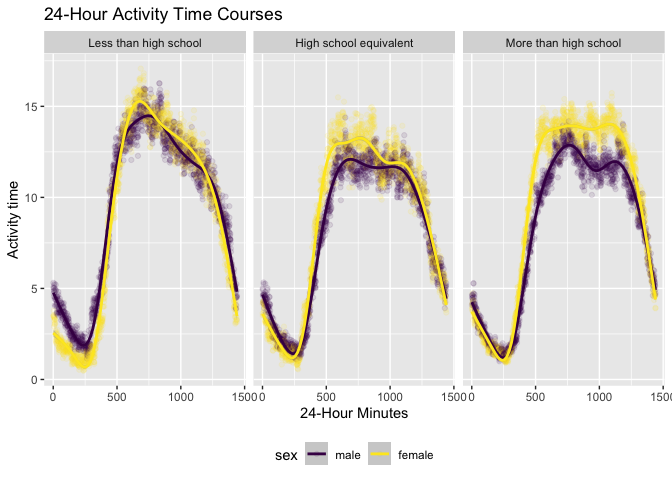
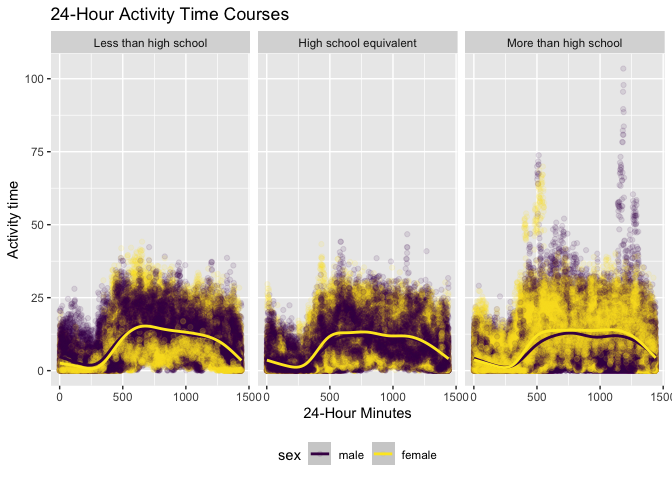
add a new plot

diff --git a/P8105_hw3_yw4200.md b/P8105_hw3_yw4200.md
@@ -564,7 +564,20 @@ including smooth trends may help identify differences.
 
 ``` r
 # make the three panel plot
-three_panel_plot <- merge_data |> 
+three_panel_plot1 <- merge_data |> 
+  ggplot(aes(x = minute, y = mims_value, color = sex)) +
+  geom_point(alpha = 0.1) +
+  geom_smooth() +
+  facet_grid(~ education) +
+  labs(
+    title = "24-Hour Activity Time Courses",
+    x = "24-Hour Minutes",
+    y = "Activity time"
+  ) +
+  theme(legend.position = "bottom") 
+
+# get the mean of mims value per day in order to see a more clear change
+three_panel_plot2 <- merge_data |> 
   group_by(minute, sex, education) |> 
   summarise(mean_mims_value = mean(mims_value)) |> 
   ggplot(aes(x = minute, y = mean_mims_value, color = sex)) +
@@ -583,12 +596,20 @@ three_panel_plot <- merge_data |>
     ## `.groups` argument.
 
 ``` r
-three_panel_plot
+three_panel_plot1
 ```
 
     ## `geom_smooth()` using method = 'gam' and formula = 'y ~ s(x, bs = "cs")'
 
 ![](P8105_hw3_yw4200_files/figure-gfm/unnamed-chunk-14-1.png)<!-- -->
+
+``` r
+three_panel_plot2
+```
+
+    ## `geom_smooth()` using method = 'gam' and formula = 'y ~ s(x, bs = "cs")'
+
+![](P8105_hw3_yw4200_files/figure-gfm/unnamed-chunk-14-2.png)<!-- -->
 
 ``` r
 # Conclusions: The overall distribution of overall activity time is more similar for different levels of education and for different genders, with a gradual increase starting after the 300th minute, leveling off at the 500th-1200th minute, and then starting to decline. The overall fluctuations in activity time for participants with education higher than high school were more volatile than for participants with other levels of education, with males peaking at around the 1100th minute.
